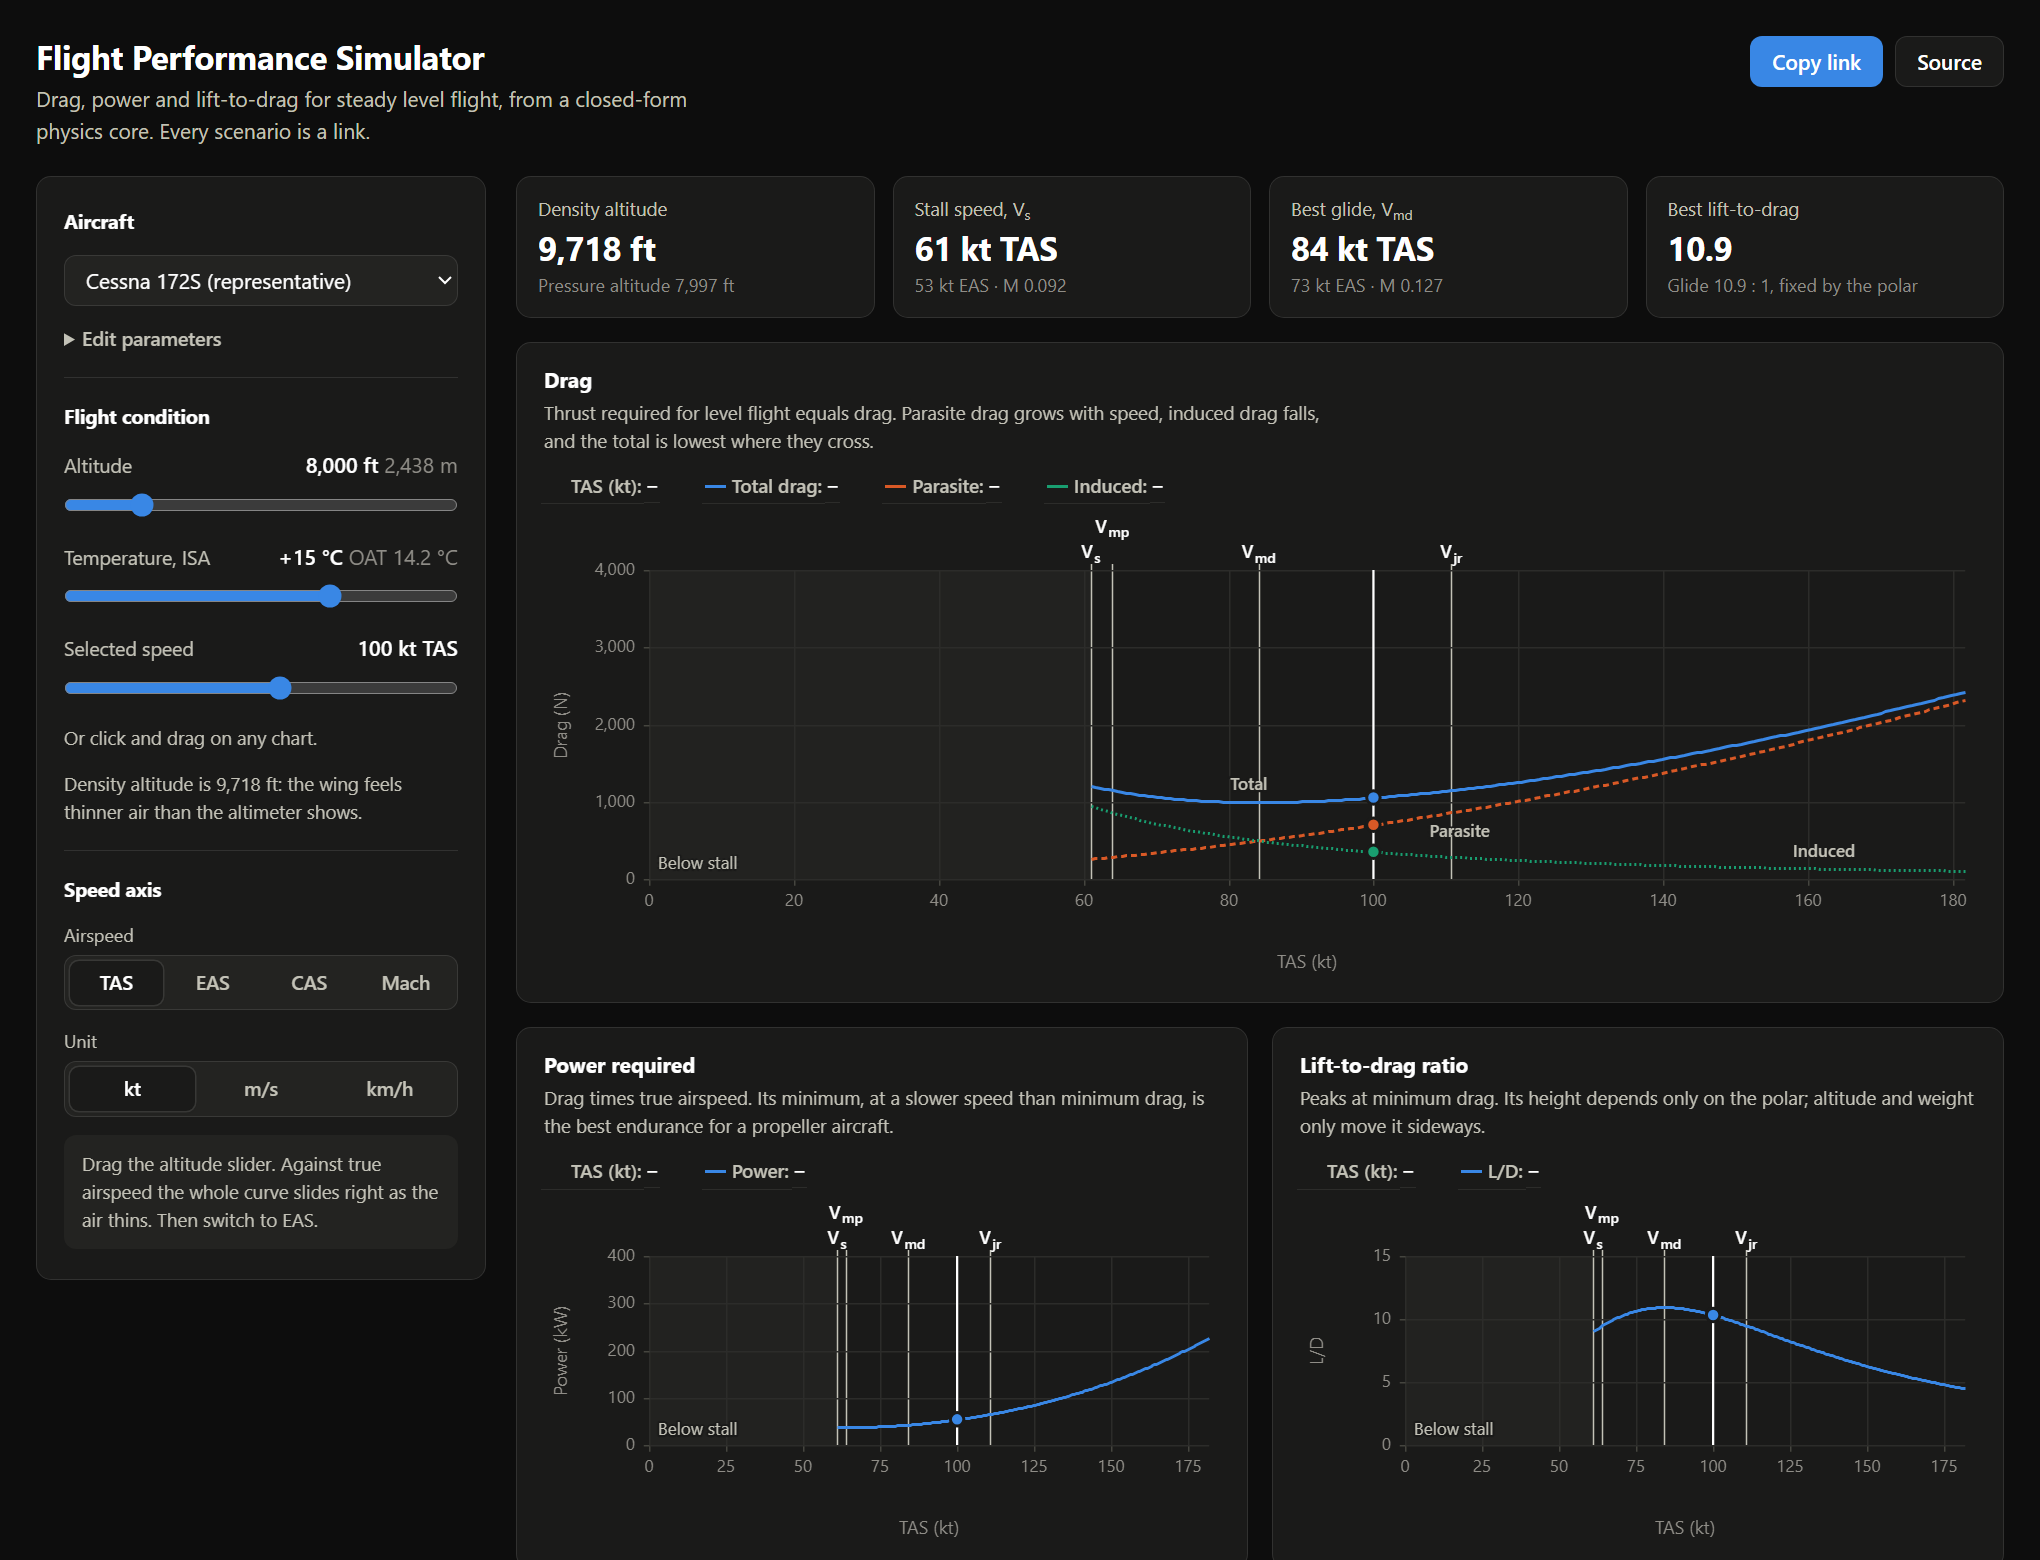
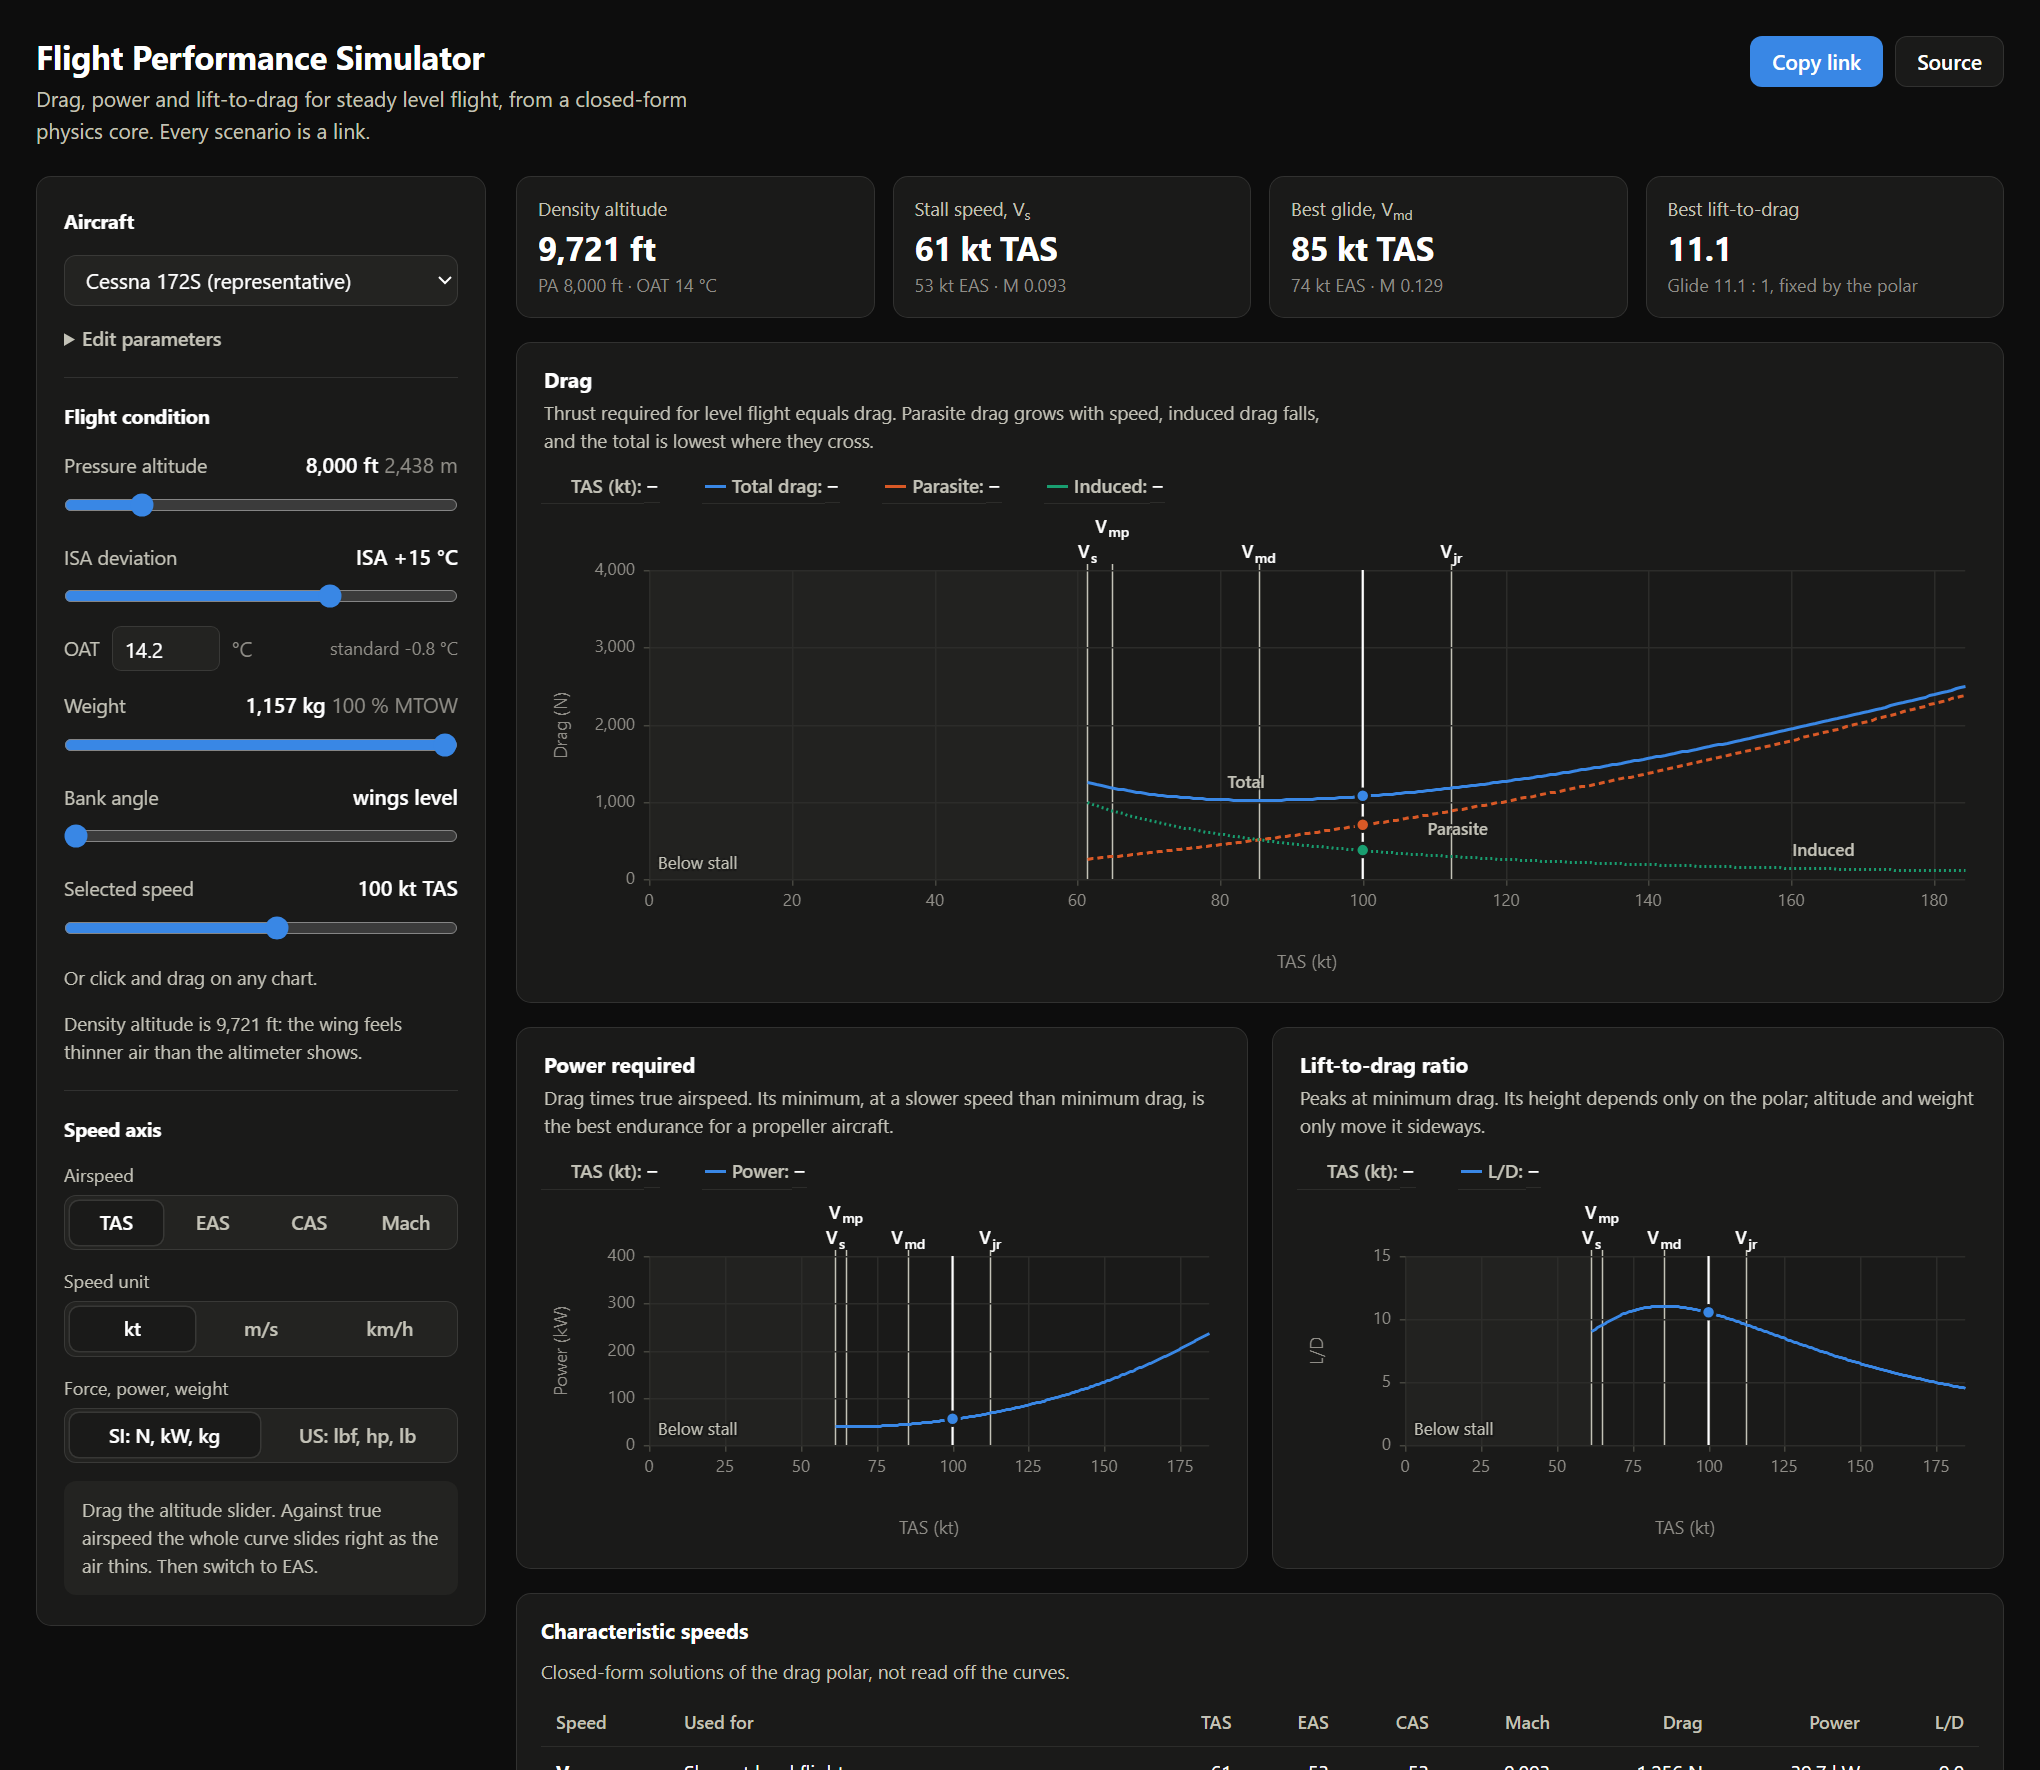
Document pressure altitude, weight, bank, units and V_s0
README: the feature list now covers pressure altitude with ISA
deviation or OAT, weight and bank angle with turn readouts, SI/US units,
flap CLmax and V_s0, and Rayleigh CAS. Adds a fifth thing to try (bank
to 60° and watch every speed move by √2) and updates the test count to
191. Screenshots recaptured with the new controls.

ROADMAP: v0.5 turn performance partly done (bank, n, radius and rate);
no turn chart or doghouse plot yet.

diff --git a/README.md b/README.md
@@ -8,24 +8,34 @@ independent Python implementation and manufacturer performance data.
 
 <picture>
   <source media="(prefers-color-scheme: dark)" srcset="docs/explorer-dark.png">
-  <img alt="The explorer showing a Cessna 172S at 8,000 ft on an ISA +15 day: density altitude 9,718 ft, and drag, power and L/D curves against true airspeed with V_s, V_mp, V_md and V_jr marked." src="docs/explorer-light.png">
+  <img alt="The explorer showing a Cessna 172S at 8,000 ft pressure altitude on an ISA +15 day: density altitude 9,721 ft, controls for pressure altitude, ISA deviation or OAT, weight and bank angle, and drag, power and L/D curves against true airspeed with V_s, V_mp, V_md and V_jr marked." src="docs/explorer-light.png">
 </picture>
 
-**Status:** v0.2. The physics core and the curve explorer are complete and tested;
-the site is not deployed yet. See [ROADMAP.md](ROADMAP.md).
+**Status:** v0.2. The physics core and the curve explorer are complete, tested and
+independently cross-checked; the site is not deployed yet. See [ROADMAP.md](ROADMAP.md).
 
 ## What it shows
 
 - **Drag** (total, parasite, induced), **power required** and **L/D** against speed,
   with `V_s`, `V_mp`, `V_md` and `V_jr` marked. Click or drag on any chart to read
   off a point.
-- **The speed axis in TAS, EAS, CAS or Mach**, in knots, m/s or km/h.
-- **Altitude and ISA temperature deviation**, with density altitude as a headline
-  number.
-- **Three presets** (Cessna 172S, a jet trainer, a sailplane) and an editor for
-  mass, wing area, aspect ratio, Oswald efficiency, CD₀ and CLmax.
+- **The speed axis in TAS, EAS, CAS or Mach**, in knots, m/s or km/h. CAS is
+  compressible, with the Rayleigh pitot formula above Mach 1.
+- **The condition the way performance data states it:** pressure altitude (flight
+  levels from FL180), and ISA deviation or OAT. Density altitude is the headline
+  number, and the true altitude of the pressure level is integrated through the
+  column.
+- **Weight and bank angle.** Operating weight from 40 % of max takeoff mass, and a
+  bank angle that sets the load factor. Turn radius and rate at the selected speed,
+  and W/δ.
+- **Three presets** (Cessna 172S at its 2,550 lb gross weight, a jet trainer, a
+  sailplane), and an editor for max takeoff mass, wing area, aspect ratio, Oswald
+  efficiency, CD₀, CLmax and flap CLmax. The landing-flap stall speed `V_s0` is
+  listed with the others.
+- **SI or US units** for force, power, weight and area: N, kW and kg, or lbf, hp
+  and lb.
 - **Every scenario is a link.** `?ac=c172&h=2438.4&disa=15` is a Cessna at
-  8,000 ft on a hot day. An edited preset stays short: `?ac=c172&cd0=0.03`.
+  8,000 ft on an ISA +15 day. An edited preset stays short: `?ac=c172&cd0=0.03`.
 
 ### Things to try
 
@@ -38,13 +48,16 @@ the site is not deployed yet. See [ROADMAP.md](ROADMAP.md).
    best L/D. A propeller aircraft gets its best range at best L/D itself.
 4. **Raise CD₀ in the editor.** `(L/D)max` falls and `V_md` gets slower, as
    `V_md ∝ (k/CD₀)^¼` says it should.
+5. **Bank to 60°.** Every speed on the chart moves up by √2, and the minimum drag
+   doubles: the wing now carries twice the weight. Lighten the aircraft and watch
+   the curves move the other way, by √W.
 
 ## Running it
 
 ```bash
 npm install
 npm run dev          # the explorer, at http://localhost:5173
-npm test             # 150 tests
+npm test             # 191 tests
 npm run validate     # cross-check against the independent Python reference (needs SciPy)
 npm run typecheck
 npm run build        # static site in dist/, relative paths, any host
@@ -56,17 +69,18 @@ npm run build        # static site in dist/, relative paths, any host
 |---|---|
 | `src/physics/constants.ts` | ISA constants and the layer table, base pressures derived for continuity |
 | `src/physics/units.ts` | Branded unit types and conversions; SI internally, aviation units at the boundary |
-| `src/physics/atmosphere.ts` | Layered ISA to 84 852 m, ΔISA deviation, pressure and density altitude, Sutherland viscosity |
-| `src/physics/airspeed.ts` | TAS / EAS / CAS / Mach, compressible impact pressure |
+| `src/physics/atmosphere.ts` | Layered ISA to 84 852 m, entered by pressure altitude and ΔISA; density and true altitude, Sutherland viscosity |
+| `src/physics/airspeed.ts` | TAS / EAS / CAS / Mach; compressible impact pressure, Rayleigh pitot above Mach 1 |
 | `src/physics/aero.ts` | Parabolic drag polar, stall speed, and closed-form characteristic speeds |
-| `src/physics/performance/curves.ts` | Drag, thrust required, power required and L/D curves, with characteristic-speed markers |
+| `src/physics/performance/curves.ts` | Drag, thrust required, power required and L/D curves, with characteristic-speed markers at any load factor |
+| `src/physics/performance/turn.ts` | Level-turn load factor, radius and rate |
 | `src/data/aircraft/presets.ts` | Id-keyed preset registry — ids are part of the URL format, so treat them as append-only |
 | `src/state/url.ts` | Scenario permalinks: delta-encoded, and decoding never throws |
 | `src/app/model.ts` | Everything the charts draw, as pure functions: axis conversions, the fixed chart window, sampled curves |
 | `src/app/permalink.ts` | View settings in the URL, and delta encoding for edited presets |
 | `src/app/components/` | React controls, readouts, and the uPlot chart with its marker overlays |
 
-150 tests, covering the published ISA table at five altitudes, layer continuity,
+191 tests, covering the published ISA table at five altitudes, layer continuity,
 profile inversion, every closed-form optimum cross-checked against a brute-force
 scan, permalink round-trip stability, and the chart model's physics: the drag curve
 is identical against EAS at every altitude and slides right by `sqrt(ρ₀/ρ)` against

diff --git a/ROADMAP.md b/ROADMAP.md
@@ -346,7 +346,8 @@ curve move. A complete product at a tiny scope.
 
 ### v0.5 — Envelope and maneuver *(the "wow" release)*
 - [ ] V-n diagram
-- [ ] Turn performance
+- [~] Turn performance — *bank angle, load factor, radius and rate at the selected
+      speed (`performance/turn.ts`); no turn-rate chart or doghouse plot yet*
 - [ ] Ps contours + flight envelope boundary (Web Worker)
 - [ ] Takeoff / landing ground roll + density altitude effects
 
